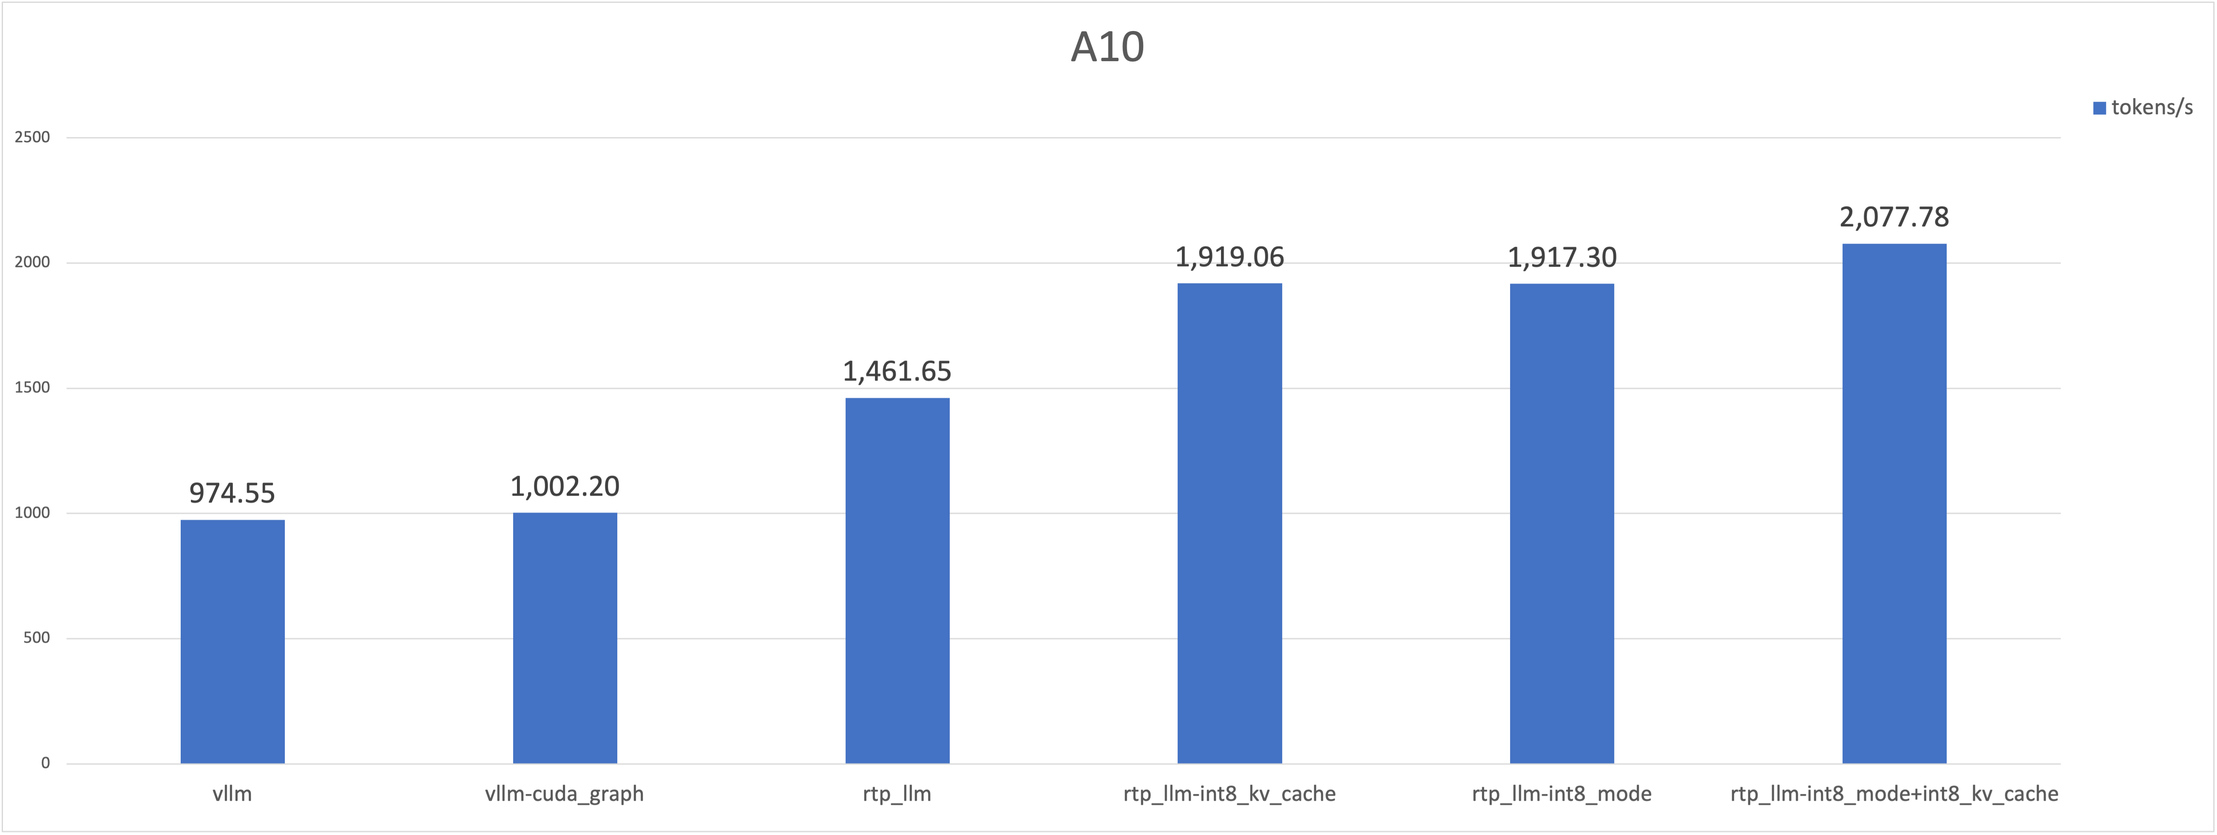
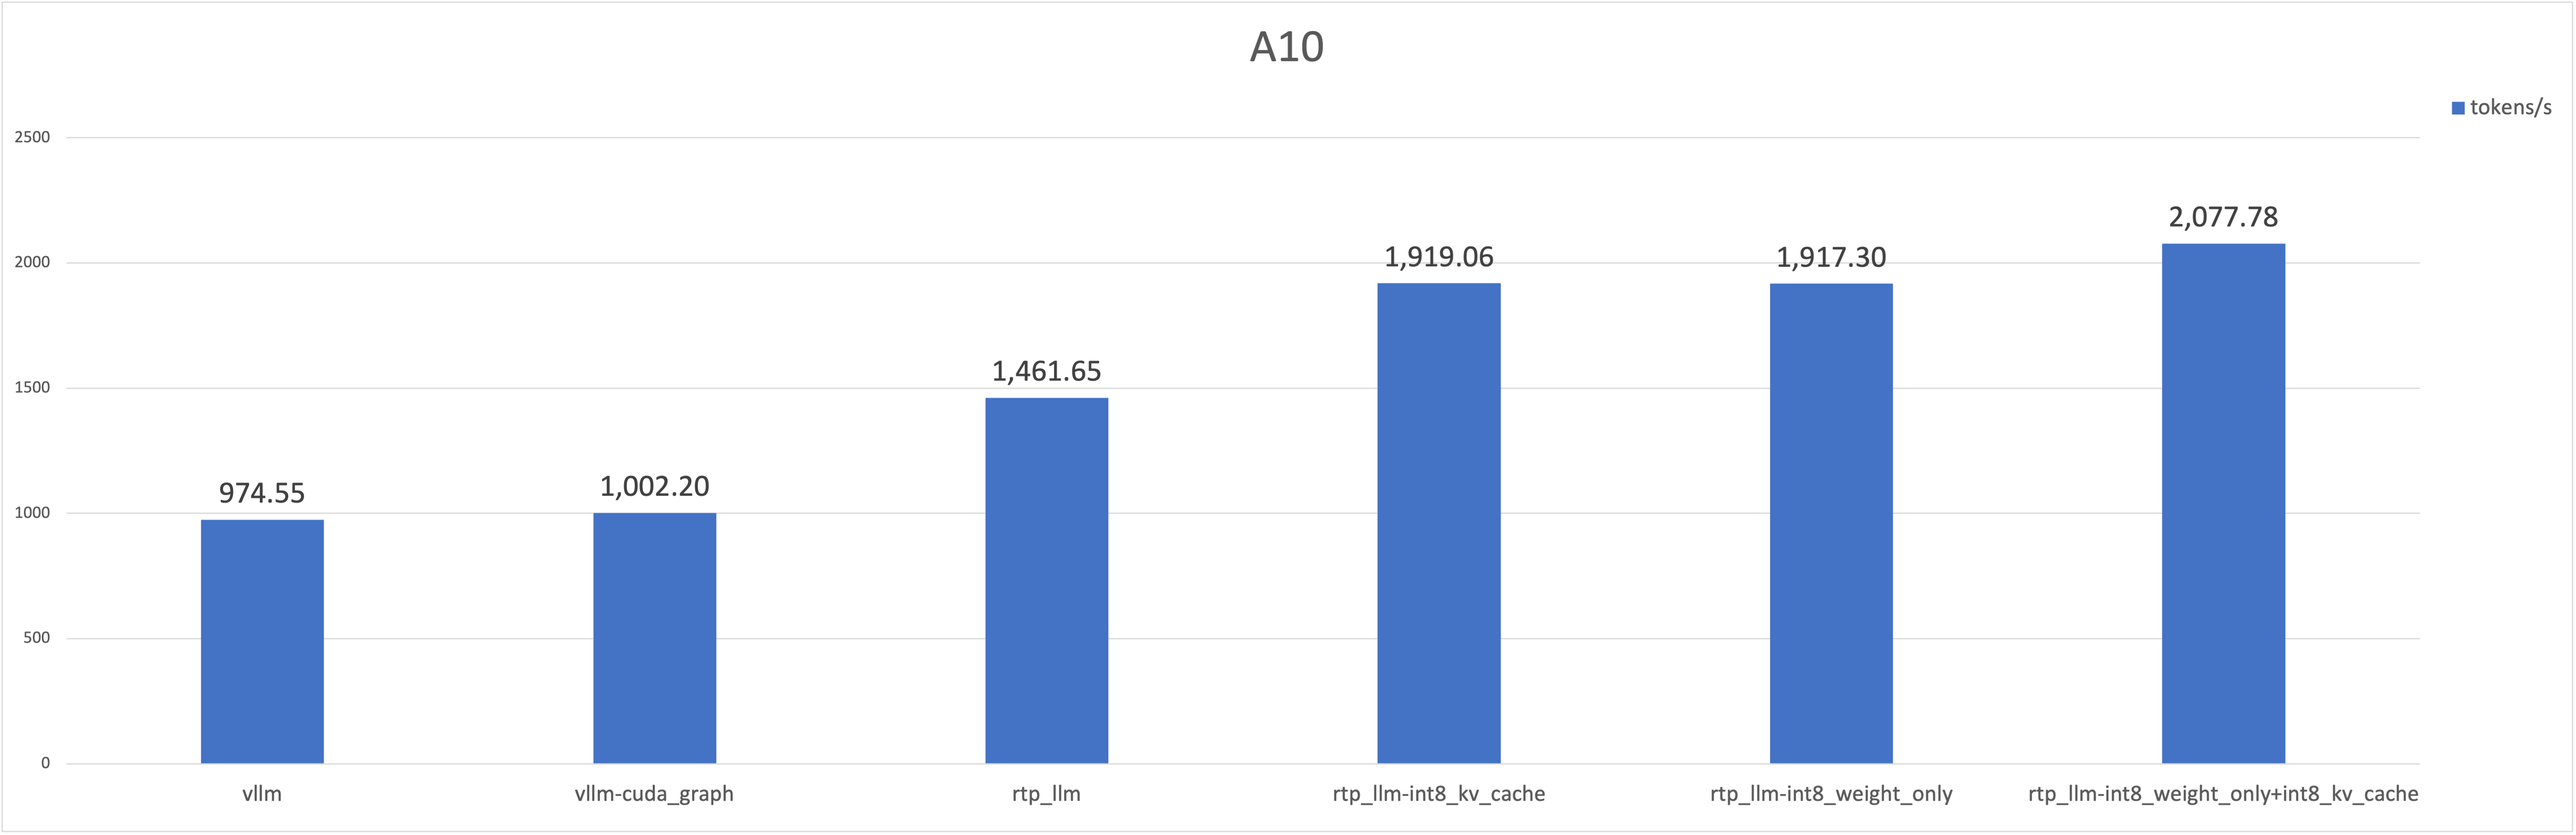
fix - fix benchmark readme

diff --git a/README.md b/README.md
@@ -91,16 +91,20 @@ Our project is mainly based on [FasterTransformer](https://github.com/NVIDIA/Fas
 # prepare test data
 wget https://huggingface.co/datasets/anon8231489123/ShareGPT_Vicuna_unfiltered/resolve/main/ShareGPT_V3_unfiltered_cleaned_split.json
 
-# launch start server, please use GUARANTE_GENERATE_MEM to avoid lack of memory when generate
+# launch start server
+# please use GUARANTE_GENERATE_MEM to avoid lack of memory when generate
+# WEIGHT_TYPE can choose int8, fp16, bf16, fp32
+# INT8_KV_CACHE mean use int8 store kv cache, default fp16
 export TOKENIZER_PATH=/path/to/tokenizer
 export CHECKPOINT_PATH=/path/to/model
 export FT_SERVER_TEST=1
 export GUARANTE_GENERATE_MEM=1
+export WEIGHT_TYPE=fp16
+export INT8_KV_CACHE=0
 python3 -m maga_transformer.start_server
 
 # benchmark service
 python3 benchmark_serving.py --dataset /path/ShareGPT_V3_unfiltered_cleaned_split.json --tokenizer /path/to/tokenizer --num-prompts 10000 --trust-remote-code --backend maga --max-batch-size 64
-
 ```
 
 The performance comparison results:

diff --git a/README_cn.md b/README_cn.md
@@ -108,11 +108,16 @@ curl -XPOST http://localhost:8088 -d '{"prompt": "hello, what is your name", "ge
 # 准备测试数据
 wget https://huggingface.co/datasets/anon8231489123/ShareGPT_Vicuna_unfiltered/resolve/main/ShareGPT_V3_unfiltered_cleaned_split.json
 
-# 起服务, 使用环境变量GUARANTE_GENERATE_MEM来保留足够的memory让query生成，避免缺少gpu mem报错,
+# 起服务
+# 使用环境变量GUARANTE_GENERATE_MEM来保留足够的memory让query生成，避免缺少gpu mem报错
+# WEIGHT_TYPE可以指定weights量化类型，可选int8, fp16, bf16, fp32
+# INT8_KV_CACHE 指定是否用int8 存储kv cache, 默认fp16
 export TOKENIZER_PATH=/path/to/tokenizer
 export CHECKPOINT_PATH=/path/to/model
 export FT_SERVER_TEST=1
 export GUARANTE_GENERATE_MEM=1
+export WEIGHT_TYPE=fp16
+export INT8_KV_CACHE=0
 python3 -m maga_transformer.start_server
 
 # 压测服务性能
